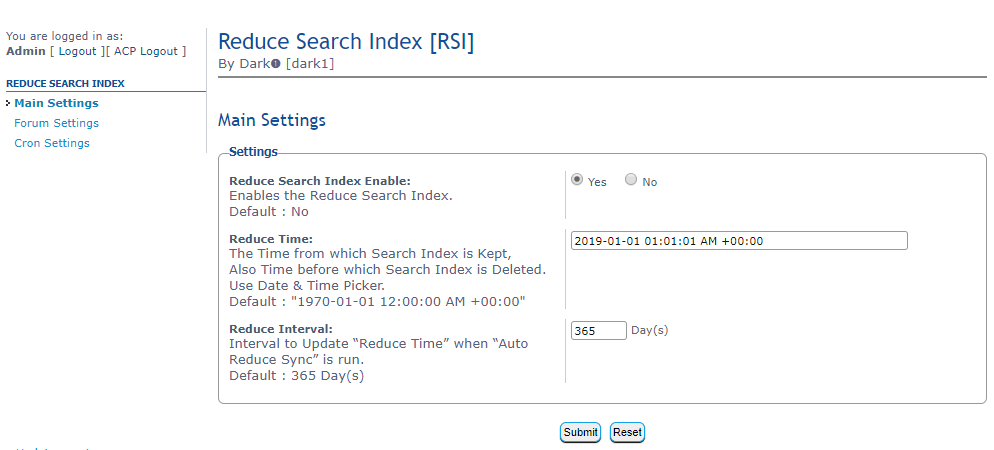
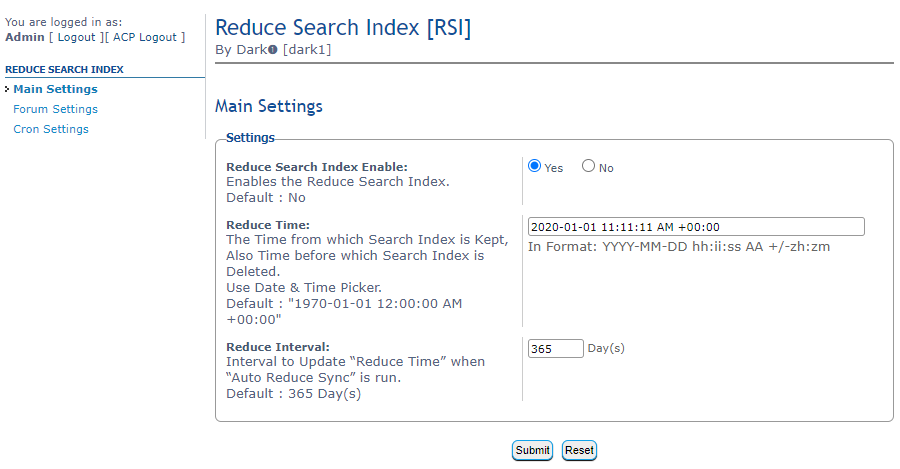
RSI v1.0.2

diff --git a/README.md b/README.md
@@ -7,7 +7,7 @@ This Extension Lets Admin to control Search Index .  😉
 ![Travis-CI](https://img.shields.io/badge/Travis-CI-8000FF.svg) : [![Build Status](https://travis-ci.com/dark-1/reducesearchindex.svg?branch=master)](https://travis-ci.com/dark-1/reducesearchindex)   
 ![Scrutinizer-CI](https://img.shields.io/badge/Scrutinizer-CI-8000FF.svg) : [![Scrutinizer Code Quality](https://scrutinizer-ci.com/g/dark-1/reducesearchindex/badges/quality-score.png?b=master)](https://scrutinizer-ci.com/g/dark-1/reducesearchindex/?branch=master) [![Build Status](https://scrutinizer-ci.com/g/dark-1/reducesearchindex/badges/build.png?b=master)](https://scrutinizer-ci.com/g/dark-1/reducesearchindex/build-status/master)   
 ![Actions-CI](https://img.shields.io/badge/Actions-CI-8000FF.svg) : [![Actions Status](https://github.com/dark-1/reducesearchindex/workflows/Actions%20CI/badge.svg)](https://github.com/dark-1/reducesearchindex/actions?workflow=Actions%20CI)   
-![Shields.IO](https://img.shields.io/badge/Shields-IO-8000FF.svg?style=flat-square) : [![GitHub release](https://img.shields.io/github/release/dark-1/reducesearchindex.svg?style=flat-square) ![license](https://img.shields.io/github/license/dark-1/reducesearchindex.svg?style=flat-square) ![Github All Releases](https://img.shields.io/github/downloads/dark-1/reducesearchindex/total.svg?style=flat-square) ![HitCount](http://hits.dwyl.io/dark-1/reducesearchindex.svg)](https://github.com/dark-1/reducesearchindex)   
+![Shields.IO](https://img.shields.io/badge/Shields-IO-8000FF.svg?style=flat-square) : [![GitHub release](https://img.shields.io/github/release/dark-1/reducesearchindex.svg?style=flat-square) ![license](https://img.shields.io/github/license/dark-1/reducesearchindex.svg?style=flat-square)](https://github.com/dark-1/reducesearchindex)   
    
    
 ## **Features :**   
@@ -31,8 +31,7 @@ This Extension Lets Admin to control Search Index .  😉
 1. **phpBB Native Fulltext** `fulltext_native` : This is Fully Supported.   
 2. **MySQL Fulltext** `fulltext_mysql` : This can not be Supported due fully DataBase side implementation & management.   
 3. **PostgreSQL Fulltext** `fulltext_postgres` : This can not be Supported due fully DataBase side implementation & management.   
-4. **Sphinx Fulltext** `fulltext_sphinx` : This is not currently Supported because I myself do not know if it's supported or not,
-also if it's supported then *"how to ???"* , If somebody is able to help me with this then I'll be very happy, credits for the same will be given.   
+4. **Sphinx Fulltext** `fulltext_sphinx` : This can not be Supported because it's fully Sphinx class side implementation & management , which is outside the scope of phpBB.   
    
    
 ## **ScreenShot:**   
@@ -46,10 +45,7 @@ also if it's supported then *"how to ???"* , If somebody is able to help me with
 [![Index](./image/03.ACP.Forum.png "ACP Forum")](./image/03.ACP.Forum.png)   
    
 4. ACP Cron Page:   
-[![Index](./image/04.ACP.Cron.01.png "ACP Main")](./image/04.ACP.Cron.01.png)   
-   
-5. ACP Cron 2 Page:   
-[![Index](./image/05.ACP.Cron.02.png "ACP Main 2")](./image/05.ACP.Cron.02.png)   
+[![Index](./image/04.ACP.Cron.png "ACP Main")](./image/04.ACP.Cron.png)   
    
    
 ## **Installation :**   
@@ -91,11 +87,18 @@ Detailed phpBB standard Updation of Extensions here : [phpBB Extensions Updating
 Detailed phpBB standard Uninstallation of Extensions here : [phpBB Extensions Removing](https://www.phpbb.com/extensions/installing/#removing)   
    
    
-GitHub Repository: [reducesearchindex](https://github.com/dark-1/reducesearchindex)   
-phpBB Customisation Database Extension: [Reduce Search Index](https://www.phpbb.com/customise/db/extension/reduce_search_index)   
-For more Details Go Here : [Reduce Search Index [RSI]](https://dark-1.github.io/reducesearchindex)   
+## **Links :**   
    
-## License  [GPLv2](license.txt)
+**GitHub Repository** : [reducesearchindex](https://github.com/dark-1/reducesearchindex)   
+**phpBB Customisation Database Extension** : [Reduce Search Index](https://www.phpbb.com/customise/db/extension/reduce_search_index)   
+**For more Details Go Here** : [Reduce Search Index [RSI]](https://dark-1.github.io/reducesearchindex)   
+   
+**Credit where credit's due** :   
+Date & Time Picker : **Any+Time** by *Andrew M. Andrews III* at [ama3.com/anytime](https://www.ama3.com/anytime),   
+which can be found at `dark1/reducesearchindex/styles/all/template/DateTimePicker`   
+   
+   
+## License [GPLv2](license.txt)
    
 --------------   
 EnJoY  😃   
